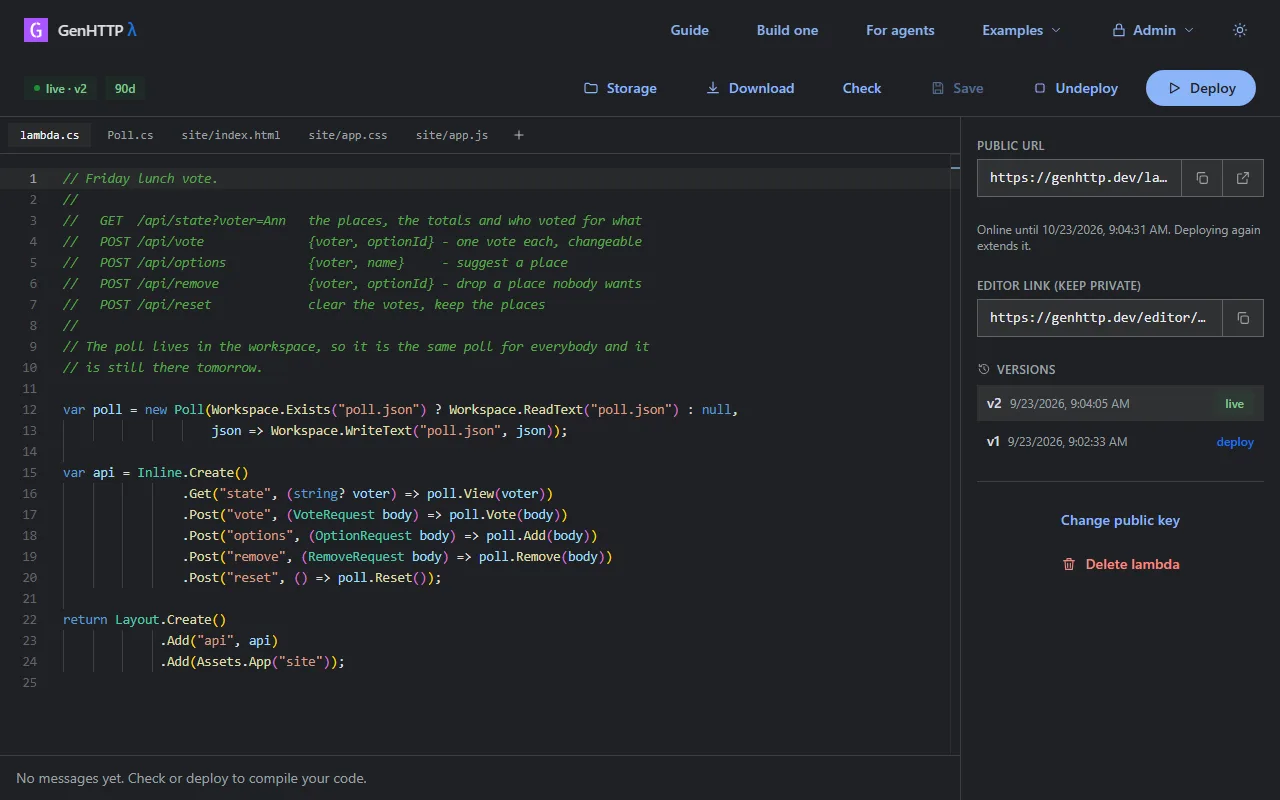
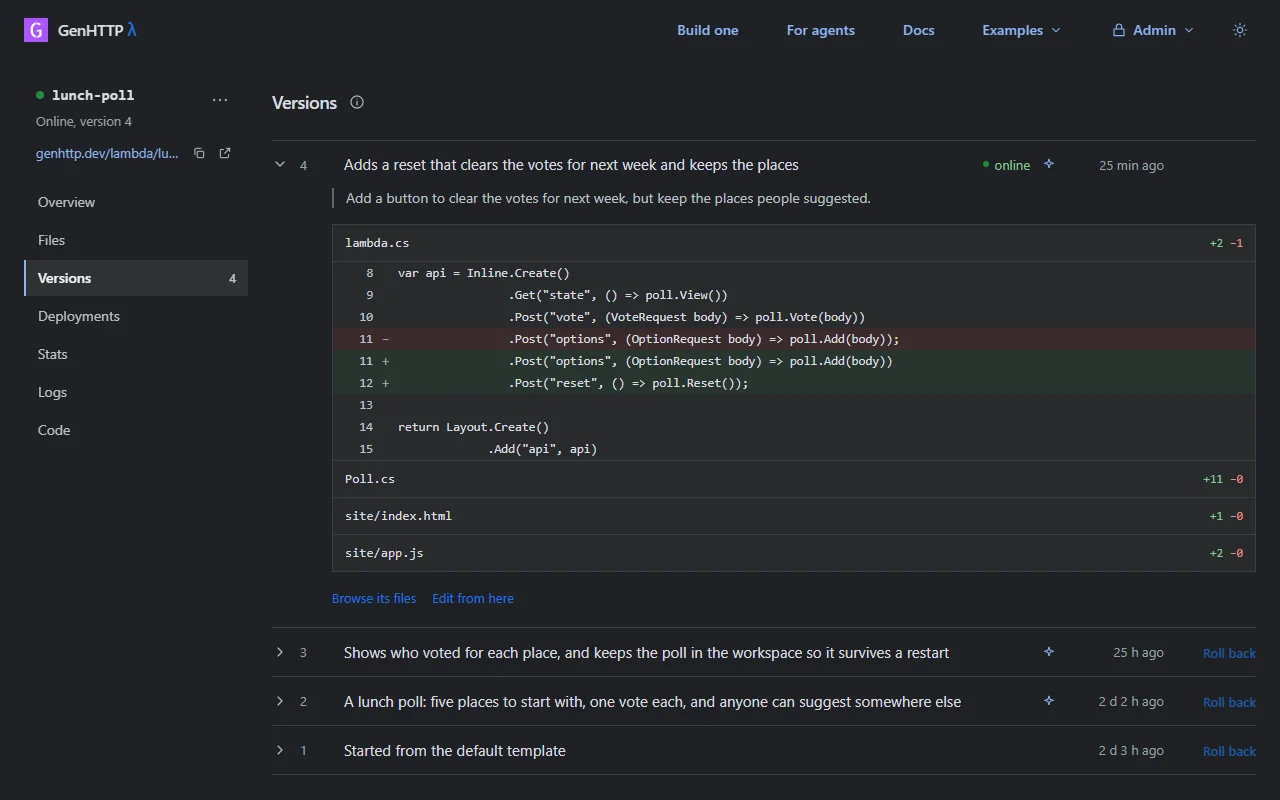
Landing page: show the control center in the third step
The screenshot of "Keep improving it" still showed the old hand-editor. It
now shows the lunch poll's versions in the control center: each change in a
line, what was asked for, and the difference to the version before.

diff --git a/src/Frontend/src/pages/Landing.tsx b/src/Frontend/src/pages/Landing.tsx
@@ -35,7 +35,7 @@ const STEPS = [
     title: 'Keep improving it',
     body: 'Every app comes with a private editor link. Hand it to your agent along with the next change, or open it yourself. Each change becomes a new version, and the address stays the same.',
     image: '/media/editor.webp',
-    alt: 'The editor for the poll, with its files and versions',
+    alt: 'The poll\'s control center: its versions, each with what was asked for, what it changed and the difference to the one before',
   },
 ];
 
